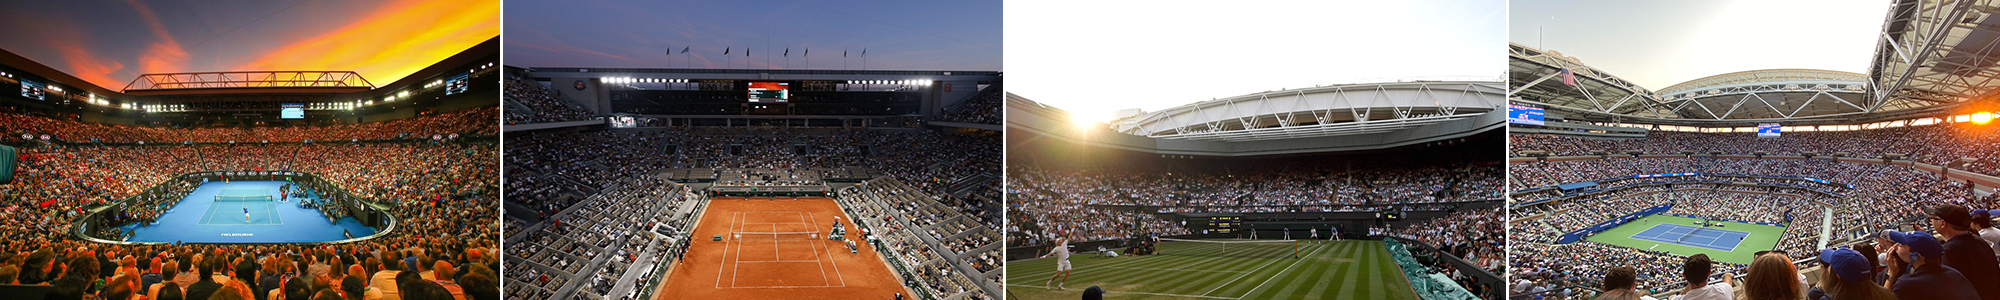
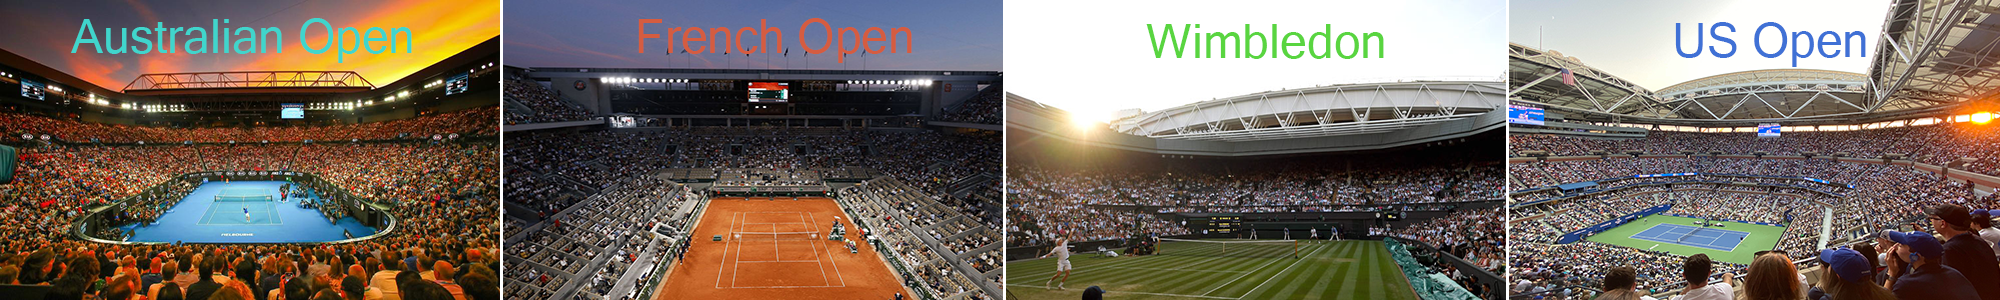
update

diff --git a/react/public/index.html b/react/public/index.html
@@ -40,7 +40,7 @@
   <div class="container my-1 px-6 mx-auto">
 
     <!-- Section: Design Block -->
-    <section class="mb-32 text-gray-800 background-radial-gradient">
+    <section class="mb-0 text-gray-800 background-radial-gradient">
       <style>
         .background-radial-gradient {
           background-color: hsl(218, 41%, 15%);
@@ -89,8 +89,8 @@
   <!-- Container for demo purpose -->
     <!-- Tailwind Elements JavaScript -->
     <script src="https://cdn.jsdelivr.net/npm/tw-elements/dist/js/tw-elements.umd.min.js"></script>
-    <h1><center>Australian Open - French Open - Wimbledon - US Open</center></h1>
-    <h2><center>4 Center Courts and 30 000 Tennis Matches on demand...</center></h2>
+    
+    <h1><center>4 Center Courts and 30 000 Tennis Matches on demand...</center></h1>
     <div id="root"></div>
   </body>
 </html>

diff --git a/react/src/pages/Home.js b/react/src/pages/Home.js
@@ -7,12 +7,6 @@ const Home = () => {
     <div>
       
       <img src="4.png" alt="4" />
-    
-
-    
-      <p>
-      Thank you for contacting me, I'll return your email as quickly as possible.
-      </p>
 
     </div>
   );

diff --git a/react/src/components/Navigation.js b/react/src/components/Navigation.js
@@ -7,6 +7,7 @@ const Navigation = () => {
       display: 'flex',
       alignItems: 'center',
       justifyContent: 'center',
+
     }}
     
     className="navigation">
